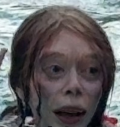
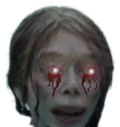
editted image and fixed mobile display

diff --git a/Eleanor.css b/Eleanor.css
@@ -3,6 +3,7 @@
     src: url('scary.ttf') format('truetype');
     text-decoration: none;
 }
+
 body {
     background-color: black;
     font-family: scary, sans-serif;
@@ -16,8 +17,37 @@ body {
 
 body.revealed {
     background-image: url("Eleanor.gif");
+    background-size:auto;
+    background-repeat: repeat;
 }
 
+img {
+    max-width: 80%;
+    max-height: 20%;
+}
 .hidden {
     display: none;
+}
+
+@media screen and (max-width: 600px) {
+    body {
+        font-size: 20px;
+    }
+    h1 {
+        font-size: 30px;
+    }
+    h2 {
+        font-size: 20px;
+    }
+    img {
+        max-width: 80%;
+        max-height: 20%;
+    }
+    button {
+        font-size: 15px;
+        padding: 5px 10px;
+    }
+    footer p {
+        font-size: 12px;
+    }
 }

diff --git a/CSS.css b/CSS.css
@@ -4,6 +4,28 @@
     text-decoration: none;
 }
 
+@media screen and (max-width: 600px) {
+    body {
+        font-size: 20px;
+    }
+    h1 {
+        font-size: 30px;
+    }
+    h2 {
+        font-size: 20px;
+    }
+    img {
+        max-width: 100%;
+        max-height: 40%;
+    }
+    button {
+        font-size: 15px;
+        padding: 5px 10px;
+    }
+    footer p {
+        font-size: 6px;
+    }
+}
 body {
     background-color: lightblue;
     font-family: comicsans, sans-serif;
@@ -16,6 +38,10 @@ body {
 h1 {
     font-size: 50px;
     
+}
+h2 {
+    font-size: 30px;
+
 }
 
 button {
@@ -32,6 +58,6 @@ button {
 
 
 
-.button:hover {
+.button:active {
   background-color:  white; 
   color: lightcoral;}

diff --git a/Igor.html b/Igor.html
@@ -18,12 +18,10 @@
     <p>Igor loves eating people.</p>
     <img src="IGOR.gif" alt="Igor Image" width="600" height="600">
     <br>
-    <br>
     <p>Igor is infront of me.</p>
     <p>Igor is a very nice person.</p>
     <p>Wait, if igor is infront of me, then what is behind me?</p>
     <img src="shocked.gif" alt="Shock" width="600" height="600">
-    <br>
     <br>
     <button onclick="window.location.href='behind.html'">Look behind you...</button>
     <br>
